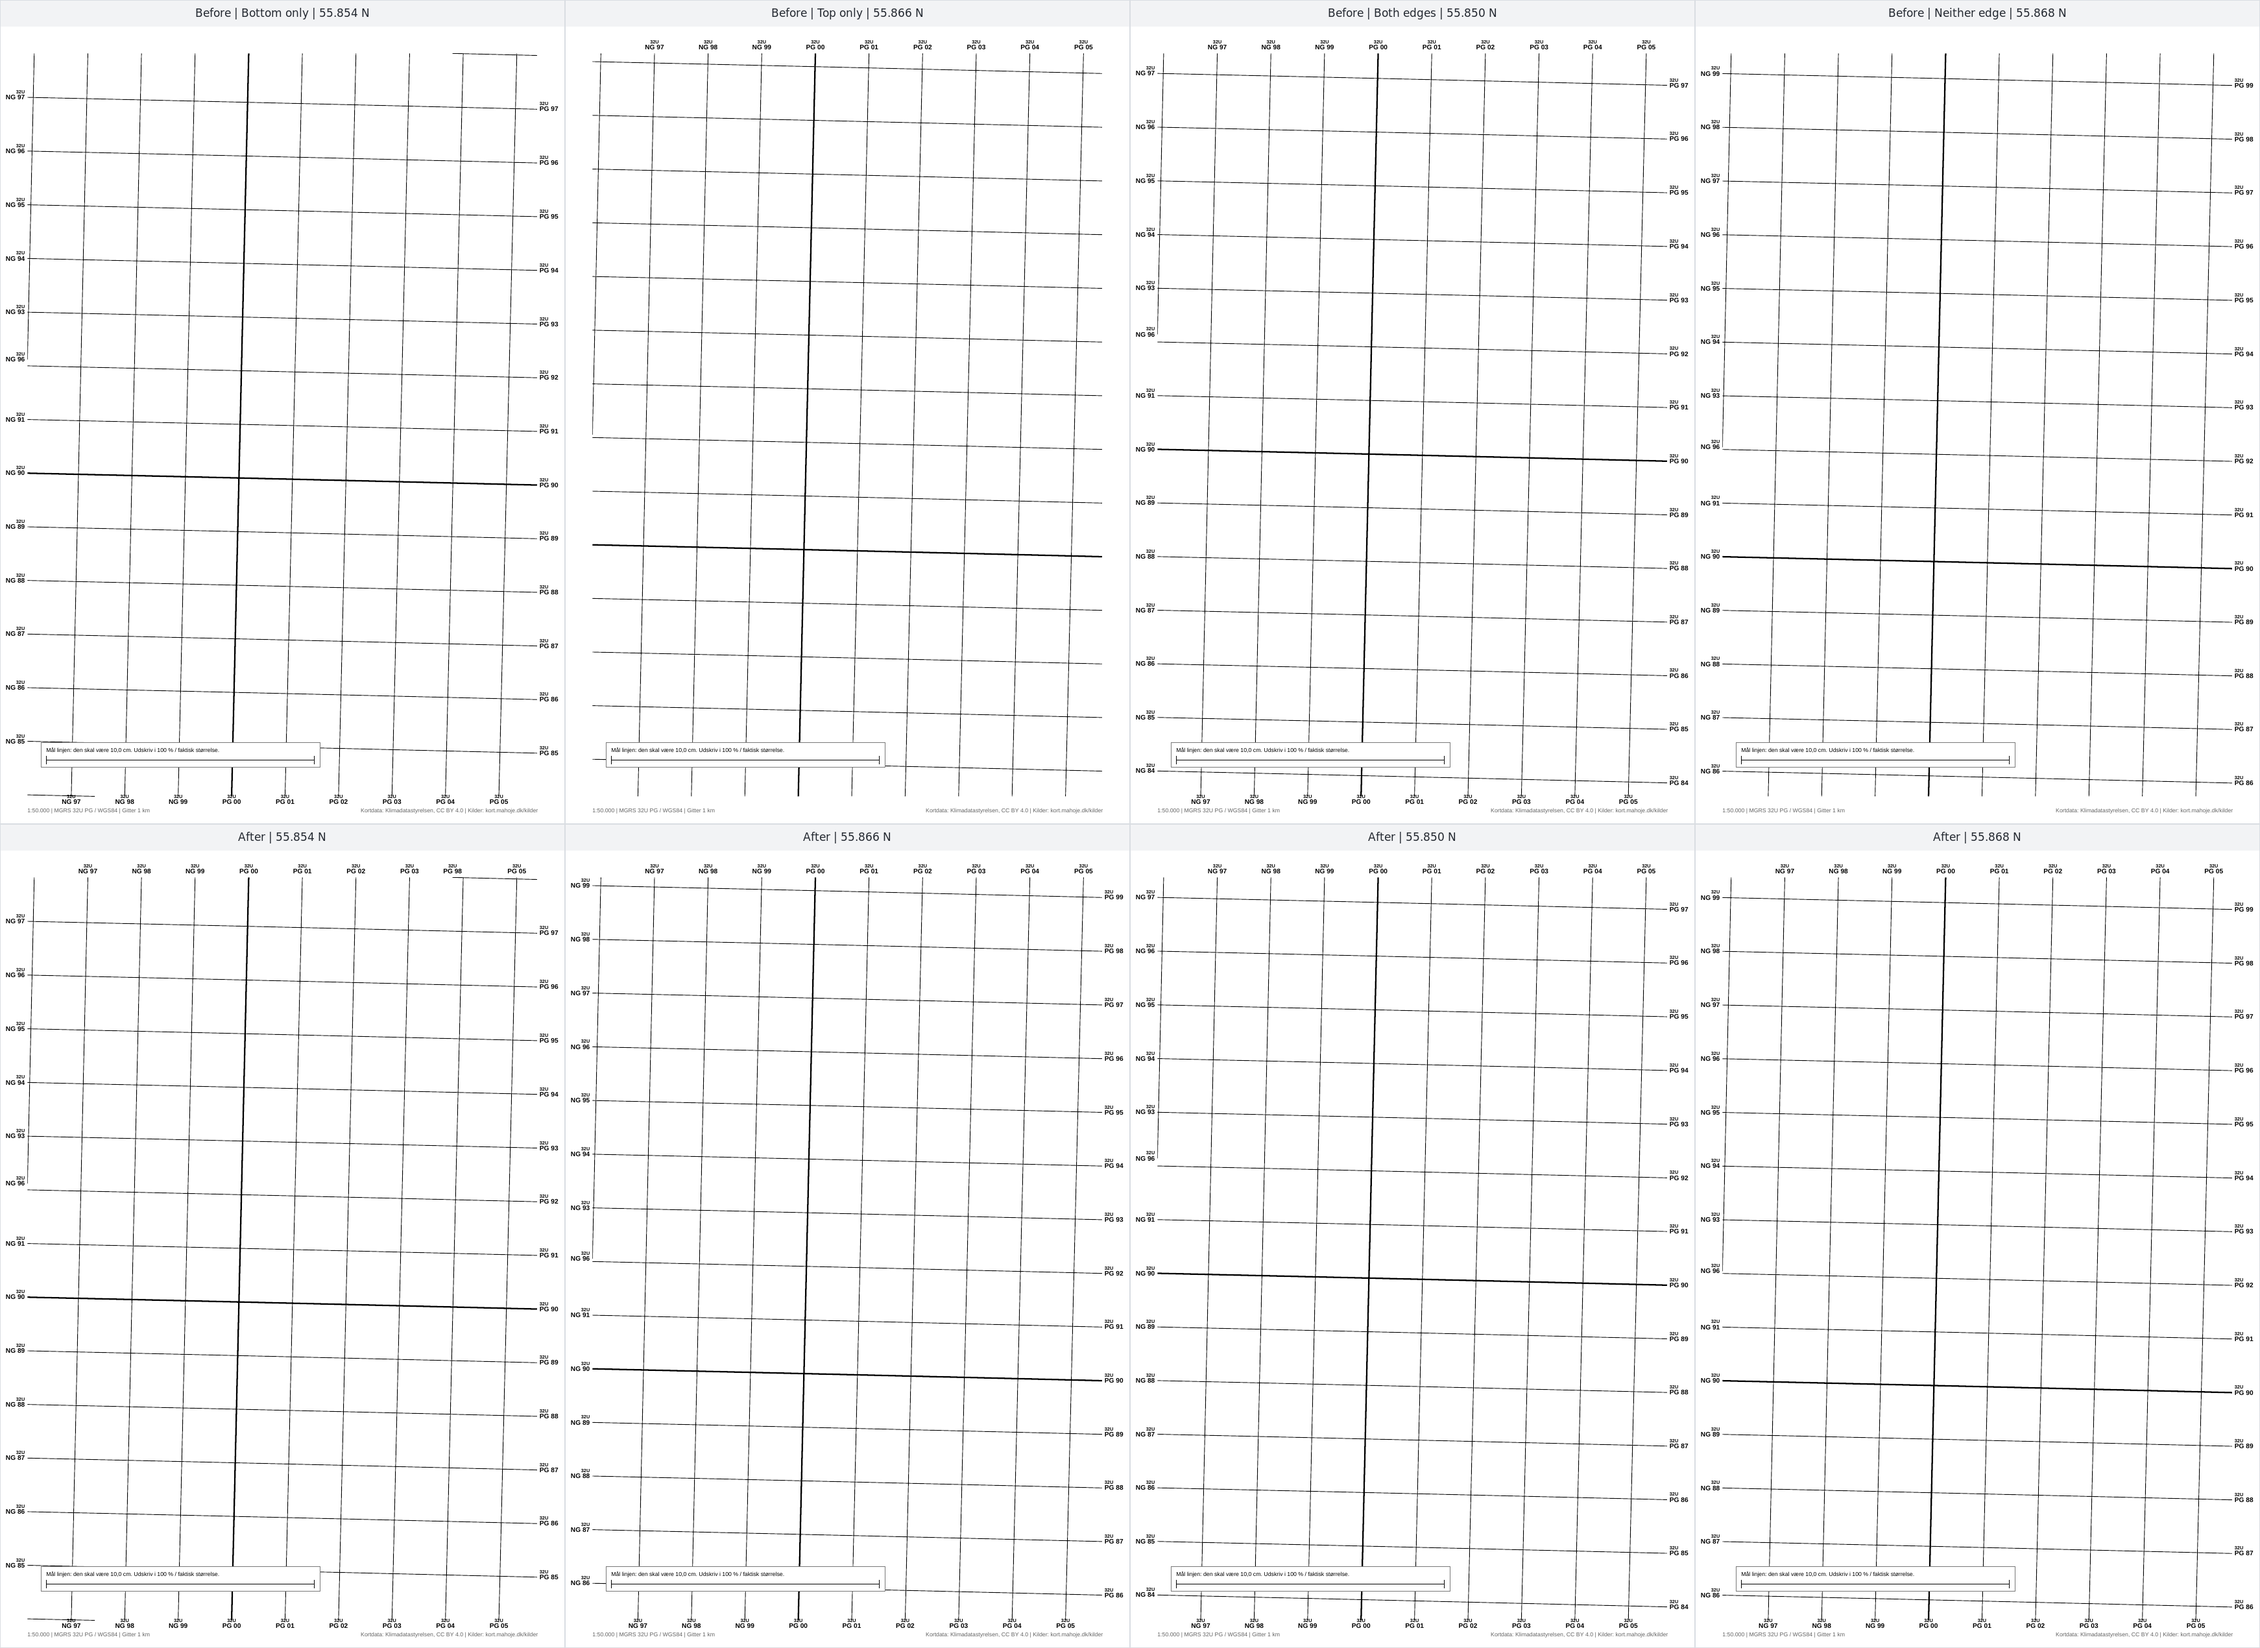
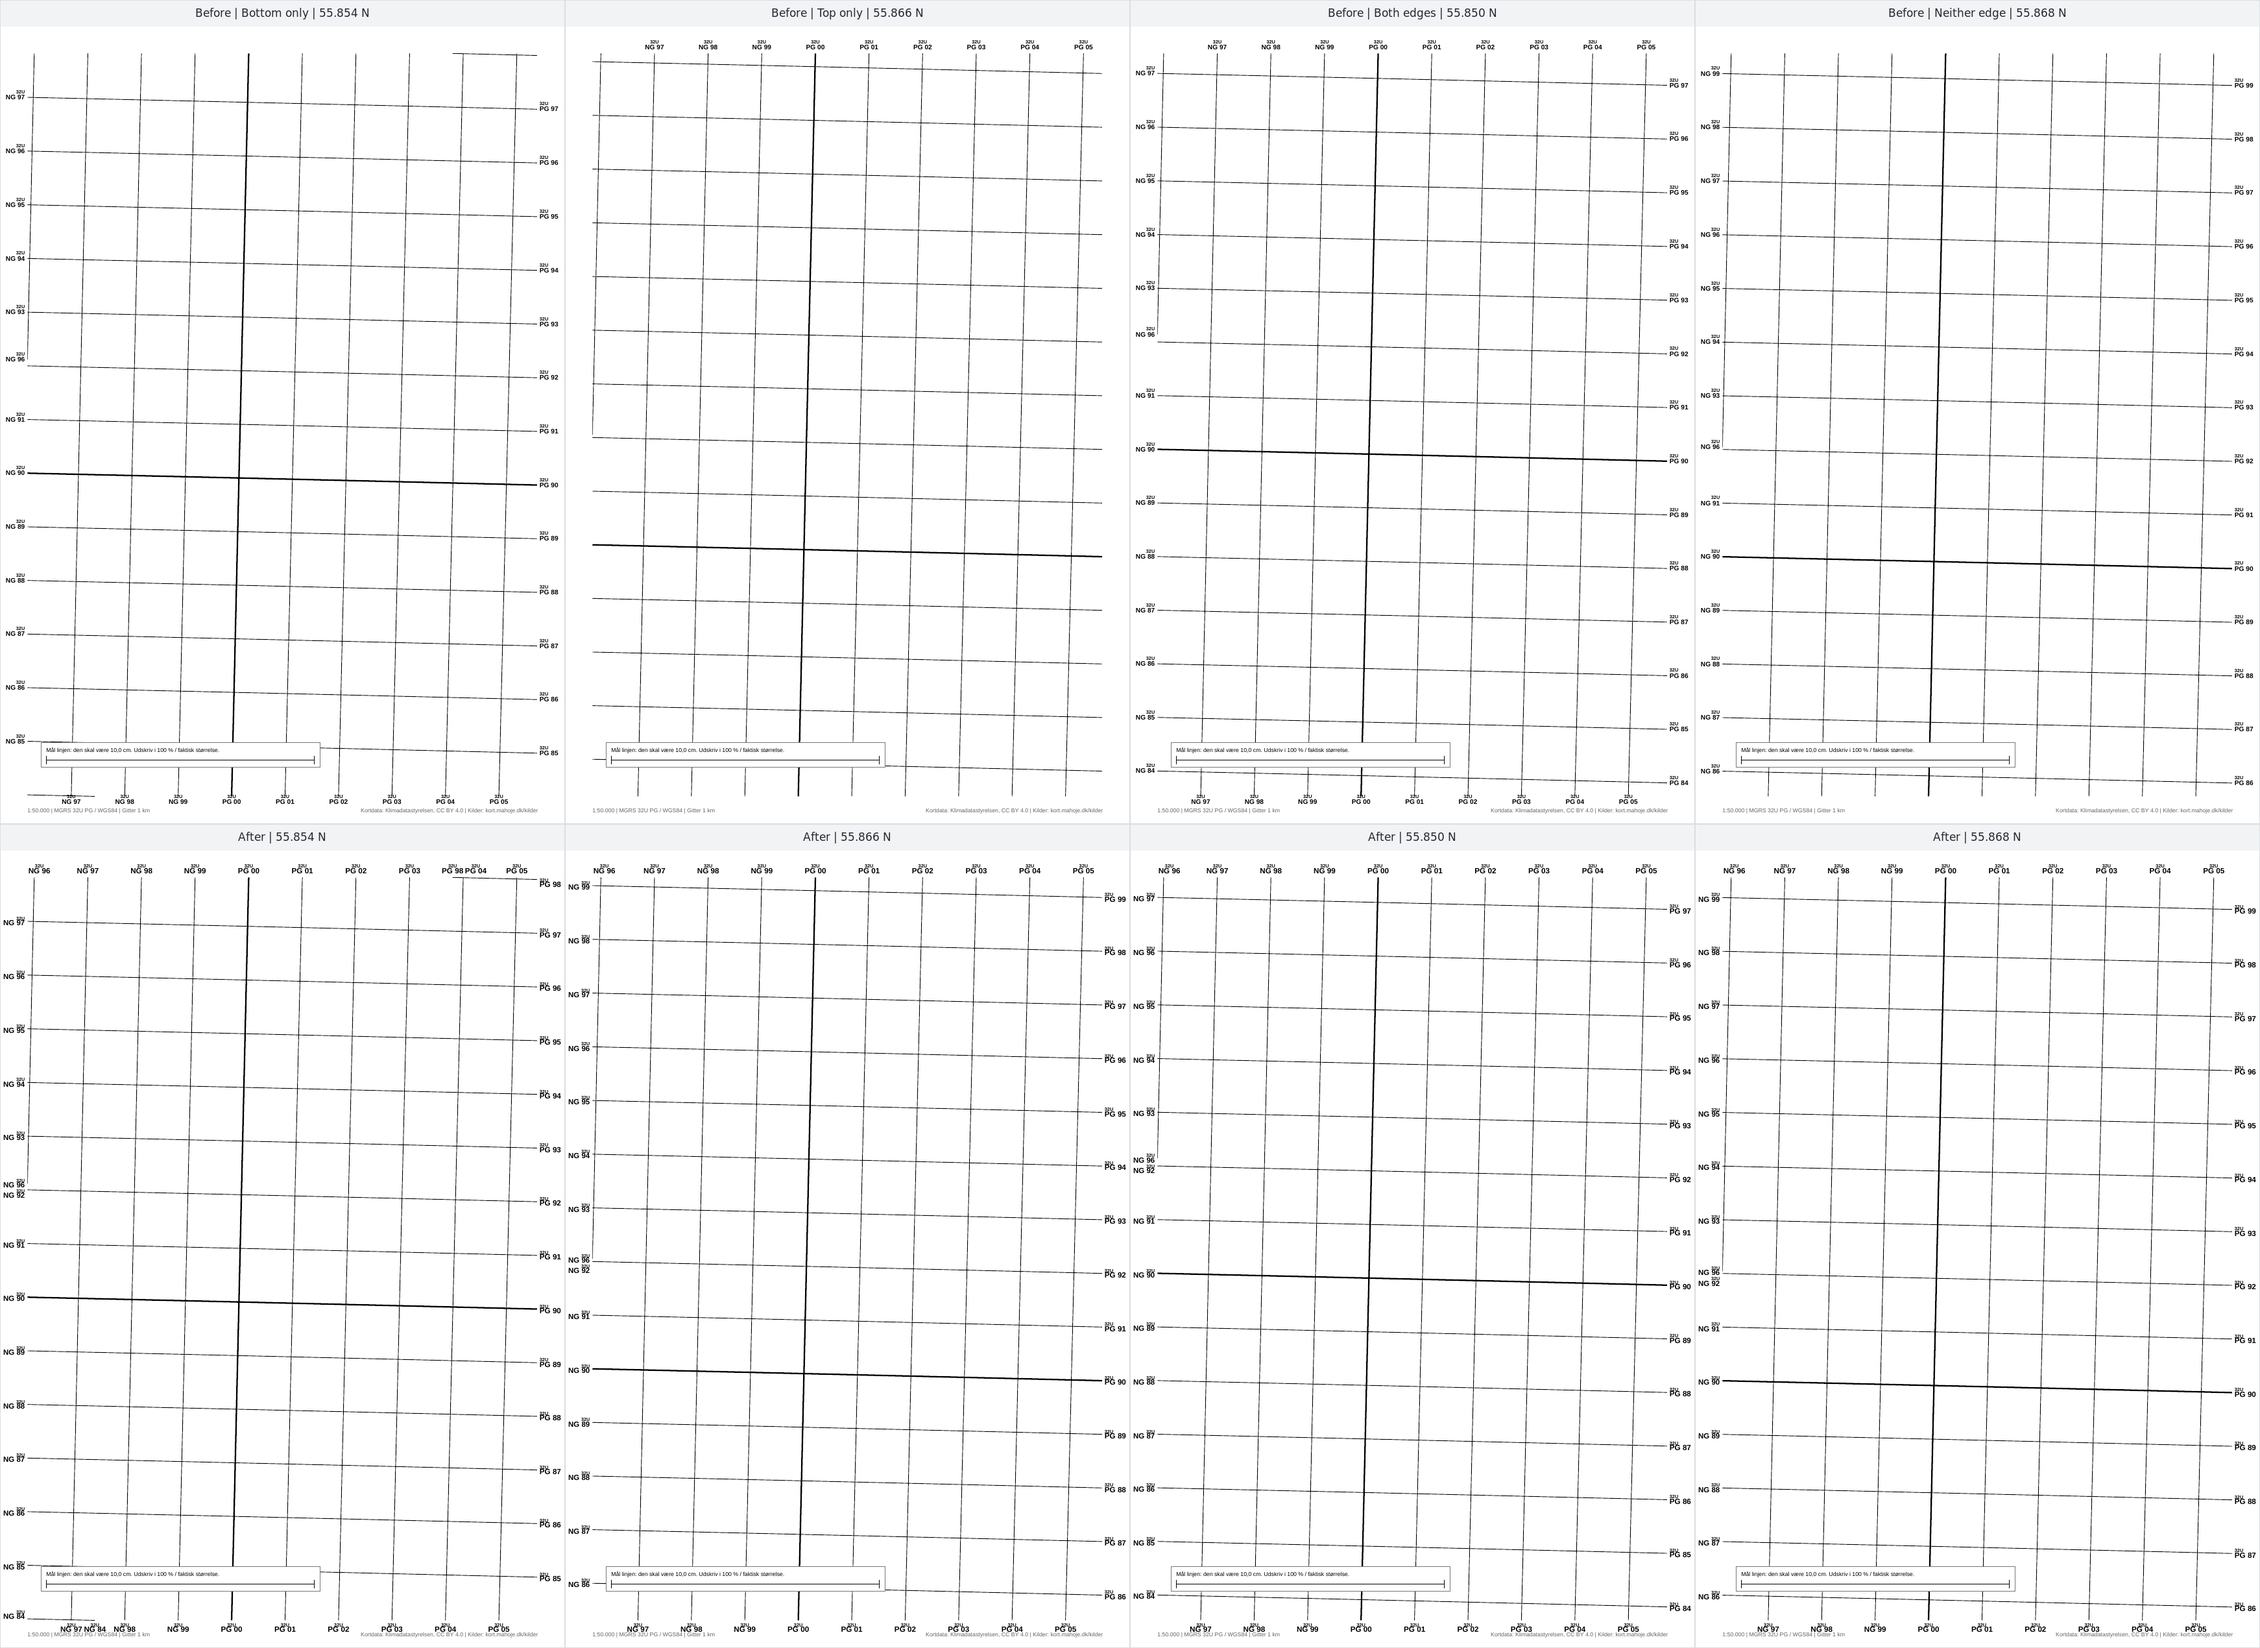
Bevar læsbare kanttal ved tætte gitterskæringer
Fordel pladsen langs hele arkkanten, så tætte skæringer kan beholde normal skriftstørrelse.

diff --git a/src/lib/pdf/generator.ts b/src/lib/pdf/generator.ts
@@ -459,36 +459,30 @@ export function drawGridLabels(
         cornerLabels.add(key);
         return true;
       });
-    let groupStart = 0;
-    let groupEnd = 0;
-    for (const [i, { t, label }] of crossings.entries()) {
-      if (i === groupEnd) {
-        groupStart = i;
-        // Different grid lines can meet the frame at the same point.
-        while (groupEnd < crossings.length && Math.abs(crossings[groupEnd].t - t) < 1e-7) groupEnd++;
-      }
-      // Fit each label between the midpoints to its neighbours and keep the
-      // ink on the map side of the corner crop marks.
-      const previous = crossings[groupStart - 1];
-      const next = crossings[groupEnd];
-      const groupLeft = previous ? (previous.t + crossings[groupStart].t) / 2 : 0;
-      const groupRight = next ? (crossings[groupEnd - 1].t + next.t) / 2 : length;
-      const count = groupEnd - groupStart;
-      const groupWidth = count === 1 ? groupRight - groupLeft : Math.min(groupRight - groupLeft, count * (horizontal ? 14 : 5));
-      const groupOrigin = Math.max(groupLeft, Math.min(t - groupWidth / 2, groupRight - groupWidth));
-      const slot = groupWidth / count;
-      const start = groupOrigin + (i - groupStart) * slot;
-      const end = start + slot;
-      const inset = Math.min(0.35, (end - start) / 4);
-      const available = end - start - 2 * inset;
+    const gap = 0.7;
+    const labels = crossings.map(({ t, label }) => {
       const { wp, wm } = measure(label, 1);
       const width = wp + wm;
       const labelHeight = !mgrs && label.prefix ? (LABEL_PT * 0.3 + PREFIX_PT * 0.72) * PT_TO_MM : height;
-      const scale = horizontal
-        ? Math.min(1, available / width)
-        : Math.min(1, available / labelHeight, (marginMm - 2) / width);
-      const half = (horizontal ? width : labelHeight) * scale / 2;
-      const position = Math.max(start + inset + half, Math.min(t, end - inset - half));
+      const scale = horizontal ? 1 : Math.min(1, (marginMm - 2) / width);
+      const extent = (horizontal ? width : labelHeight) * scale;
+      return { t, label, labelHeight, scale, extent };
+    });
+
+    // Reserve room for every label before placing the first one. Close
+    // crossings can borrow space along the edge without shrinking the text.
+    const required = labels.reduce((total, { extent }) => total + extent + gap, 0);
+    const edgeScale = required > length ? length / required : 1;
+    const inset = gap * edgeScale / 2;
+    let remaining = required * edgeScale;
+    let start = 0;
+    for (const entry of labels) {
+      const { t, label, labelHeight, extent } = entry;
+      const scale = entry.scale * edgeScale;
+      const half = extent * edgeScale / 2;
+      const position = Math.max(start, Math.min(t - half - inset, length - remaining)) + half + inset;
+      start = position + half + inset;
+      remaining -= 2 * (half + inset);
       if (horizontal) {
         const baseline = side === "top" ? rect.top - 1.5 : rect.bottom + 1.2 + labelHeight * scale;
         drawLabel(label, rect.left + position, baseline, "center", scale);

diff --git a/src/lib/pdf/__tests__/gridLabels.test.ts b/src/lib/pdf/__tests__/gridLabels.test.ts
@@ -36,6 +36,38 @@ describe("PDF grid labels", () => {
     }
   });
 
+  it.each(["mgrs", "utm", "dktm2"] as const)("keeps %s labels readable at closely spaced corner crossings", (system) => {
+    const pdf = new jsPDF({ unit: "mm", format: "a4" });
+    const labels: { x: number; y: number; size: number; width: number }[] = [];
+    const drawText = pdf.text.bind(pdf);
+    vi.spyOn(pdf, "text").mockImplementation((label, x, y, options) => {
+      const value = String(label);
+      if (/(?:^| )(?:00|51)$/.test(value)) {
+        const width = pdf.getTextWidth(value);
+        labels.push({ x: options?.align === "center" ? x - width / 2 : x, y, size: pdf.getFontSize(), width });
+      }
+      return drawText(label, x, y, options);
+    });
+    const lines: ZonedGridLine[] = [
+      { axis: "E", value: 600000, zone: 32, cls: "major", coords: [[10.6, 56], [10.6, 55.9]] },
+      { axis: "N", value: 6251000, zone: 32, cls: "major", coords: [[10.59, 56], [10.59, 55.9]] },
+    ];
+    const project = (lng: number, lat: number) => lat === 56
+      ? { x: lng === 10.6 ? rect.left : rect.left + 1, y: rect.top }
+      : { x: lng === 10.6 ? rect.right : rect.right - 1, y: rect.bottom };
+    drawGridLabels(pdf, { toMm: project }, rect, 10, lines, { system, labelFormat: "short" });
+
+    expect(labels).toHaveLength(4);
+    for (const edge of [labels.filter(({ y }) => y < rect.top), labels.filter(({ y }) => y > rect.bottom)]) {
+      expect(edge).toHaveLength(2);
+      expect(edge.map(({ size }) => size)).toEqual([8, 8]);
+      const [first, second] = edge.sort((a, b) => a.x - b.x);
+      expect(first.x).toBeGreaterThan(rect.left);
+      expect(first.x + first.width).toBeLessThan(second.x);
+      expect(second.x + second.width).toBeLessThan(rect.right);
+    }
+  });
+
   it("labels a diagonal line once where it meets a shared corner", () => {
     const pdf = new jsPDF({ unit: "mm", format: "a4" });
     const text = vi.spyOn(pdf, "text");

diff --git a/docs/grids-and-declination.md b/docs/grids-and-declination.md
@@ -12,8 +12,9 @@ MGRS 100 km square letters and the kilometre digits within that square.
 At 100 km boundaries, square letters use the line's exact UTM ordinate so
 polyline interpolation cannot select the preceding square on screen or in PDFs.
 On single- and multi-sheet PDFs, grid lines clipped at a frame edge are
-labelled on that edge. Labels are fitted between adjacent crossings and
-the frame corners. On multi-sheet PDFs the heading sits above the top labels.
+labelled on that edge. Where crossings are close together, labels can shift
+along the edge to stay readable and clear of one another and the frame
+corners. On multi-sheet PDFs the heading sits above the top labels.
 
 **DKTM1-4** ("Dansk Transversal Mercator", EPSG:4093-4096) are four ETRS89
 transverse Mercator zones used in Danish surveying. Unlike UTM's 6° zones,
